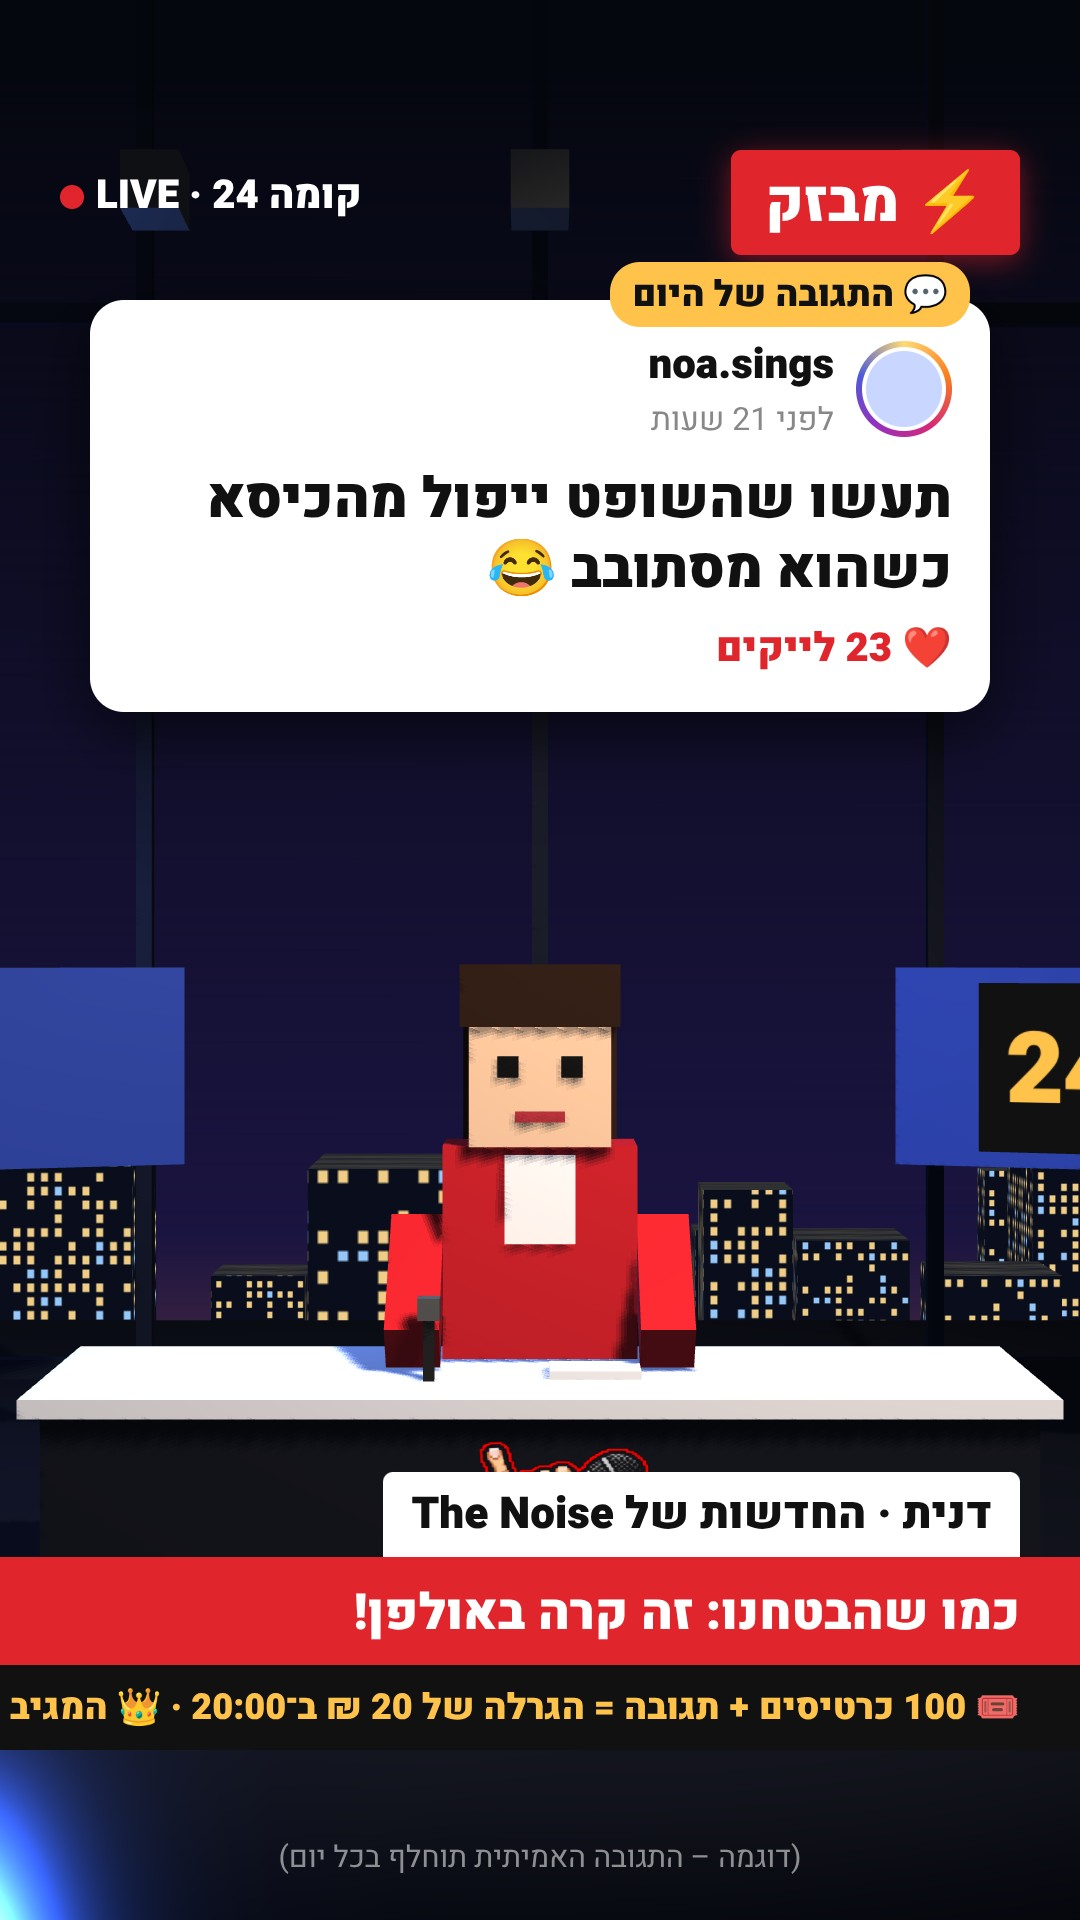
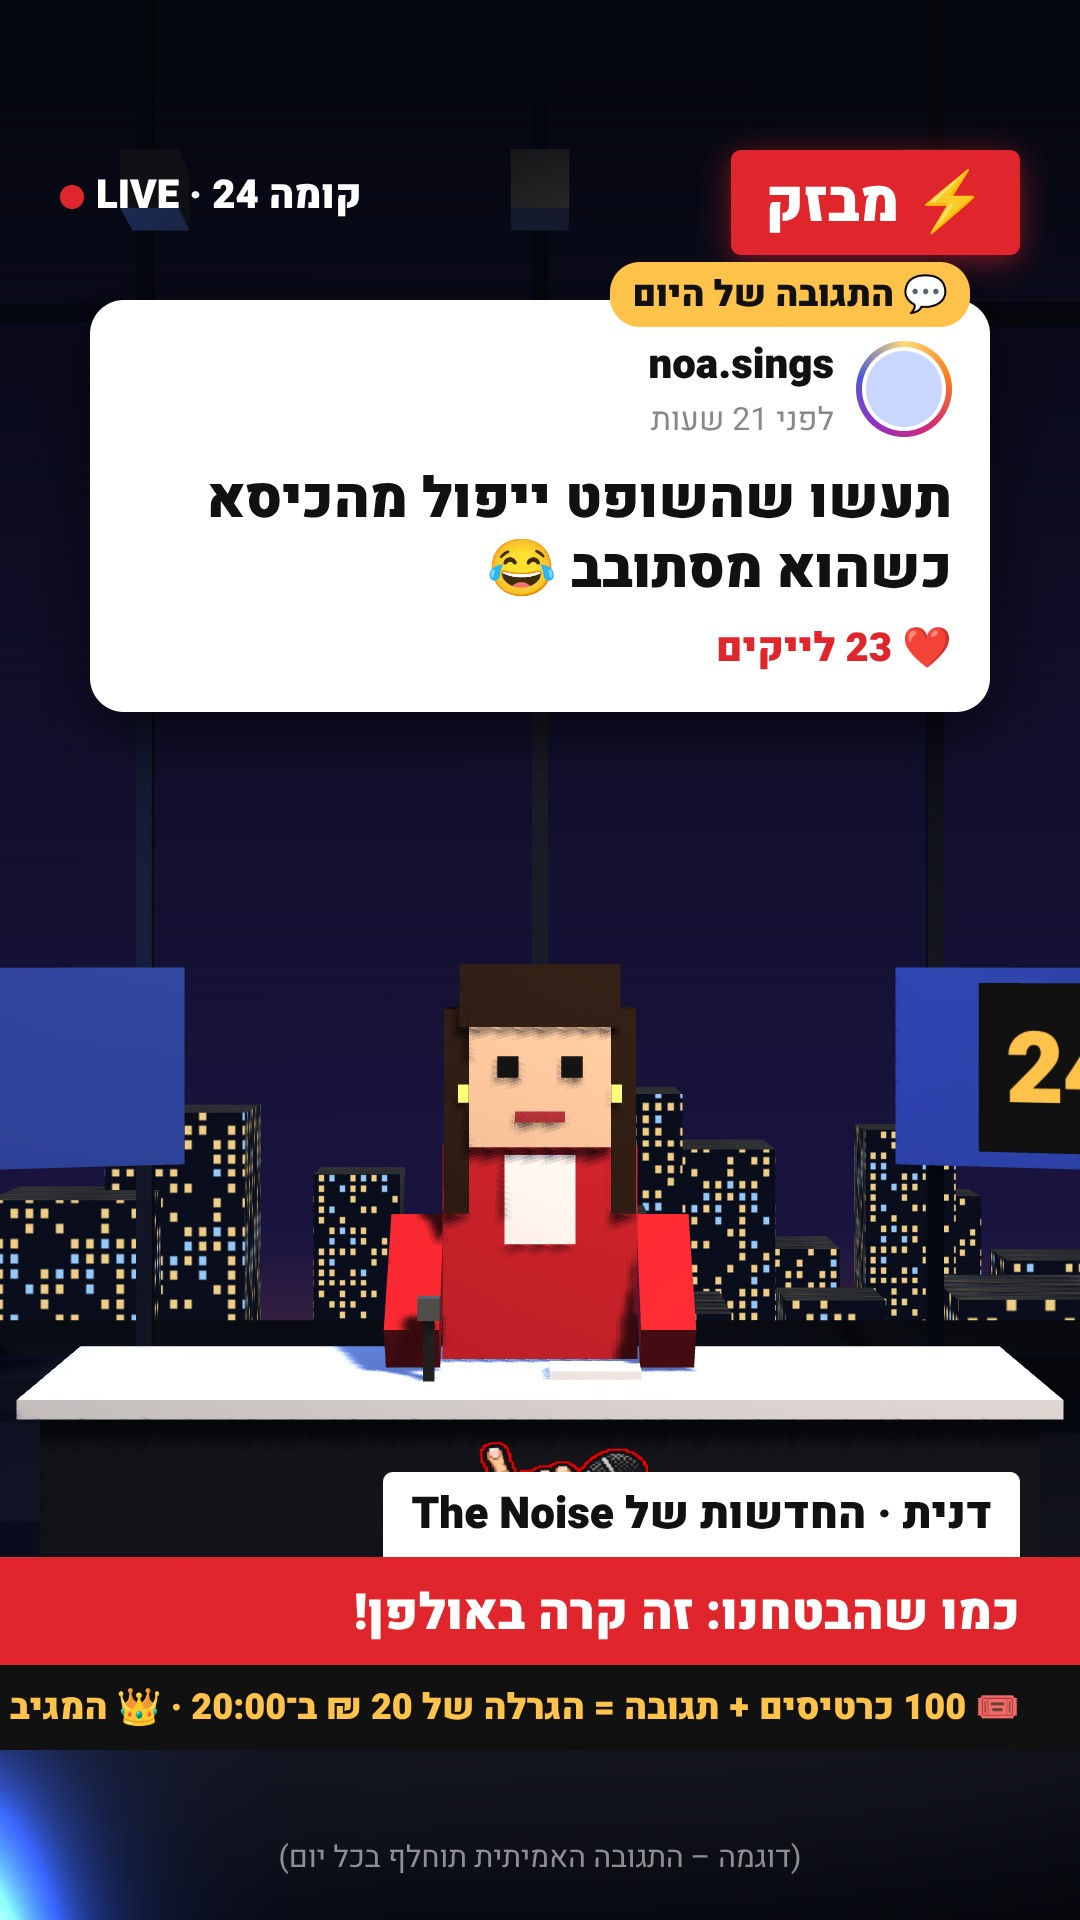
Plateau du journal validé (présentatrice דנית finalisée)
Claude-Session: https://claude.ai/code/session_01K8i1w3yD9CDquGsWHdGjZx

Changed region(s): [[0.55, 0.5312, 1.0, 0.6875], [0.0, 0.5312, 0.4583, 0.6875]]

diff --git a/tools/plateau/plateau.html b/tools/plateau/plateau.html
@@ -62,7 +62,7 @@ box(5.2,0.1,0.02,M(0xc8202a,0.8),0,0.08,2.01);
 // presenter (cube style)
 const skin=M(0xf1c7a2),hair=M(0x2b1a12),blaz=M(0xc8202a),shirt=M(0xffffff);
 box(1.1,1.2,0.6,blaz,0,1.95,0.6);box(0.4,0.5,0.62,shirt,0,2.25,0.61);
-box(0.8,0.8,0.75,skin,0,2.95,0.6);box(0.9,0.35,0.85,hair,0,3.4,0.58);box(0.9,1.1,0.25,hair,0,2.85,0.2);
+box(0.8,0.8,0.75,skin,0,2.95,0.6);box(0.9,0.35,0.85,hair,0,3.4,0.58);box(0.9,1.1,0.25,hair,0,2.85,0.2);box(0.14,1.15,0.7,hair,-0.47,2.75,0.6);box(0.14,1.15,0.7,hair,0.47,2.75,0.6);box(0.06,0.1,0.06,M(0xFFC24B,0.6),-0.43,2.85,0.95);box(0.06,0.1,0.06,M(0xFFC24B,0.6),0.43,2.85,0.95);
 box(0.12,0.12,0.02,M(0x111111),-0.18,3.0,0.98);box(0.12,0.12,0.02,M(0x111111),0.18,3.0,0.98);box(0.28,0.06,0.02,M(0xb0303a),0,2.72,0.98);
 box(0.3,0.9,0.3,blaz,-0.7,1.75,0.95).rotation.x=-0.9;box(0.3,0.9,0.3,blaz,0.7,1.75,0.95).rotation.x=-0.9;
 box(0.5,0.05,0.35,shirt,0.3,1.35,1.3); // papers

diff --git a/tools/PLATEAU.md b/tools/PLATEAU.md
@@ -5,4 +5,4 @@
 - Commentaire gagnant affiché en capture style Instagram : avatar avec anneau dégradé, @pseudo, « לפני X שעות », texte en gros, ❤ N לייקים, pastille jaune « 💬 התגובה של היום ».
 - Habillage : « ⚡ מבזק » rouge, « LIVE · קומה 24 », bandeau « דנית · החדשות של The Noise », titre rouge « כמו שהבטחנו: זה קרה באולפן! », ticker (loterie, המגיב של היום…).
 - Déroulé (~6–8 s au milieu de l'épisode) : jingle flash + coupure vers le plateau → דנית lit le commentaire → plan du jeu où c'est réalisé → retour à l'épisode.
-- Maquette : tools/plateau/plateau.html (Three.js r128, même méthode de rendu que les épisodes) → tools/plateau/plateau_maquette.jpg. EN ATTENTE DE VALIDATION de Shlomo.
+- Maquette : tools/plateau/plateau.html (Three.js r128, même méthode de rendu que les épisodes) → tools/plateau/plateau_maquette.jpg. VALIDÉ par Shlomo le 30/10 (« je te fais confiance, choisis toi ») : ce plateau est utilisé dans chaque vidéo à partir du 1/11. Présentatrice : cheveux longs bruns, boucles d'oreilles dorées, blazer rouge.
